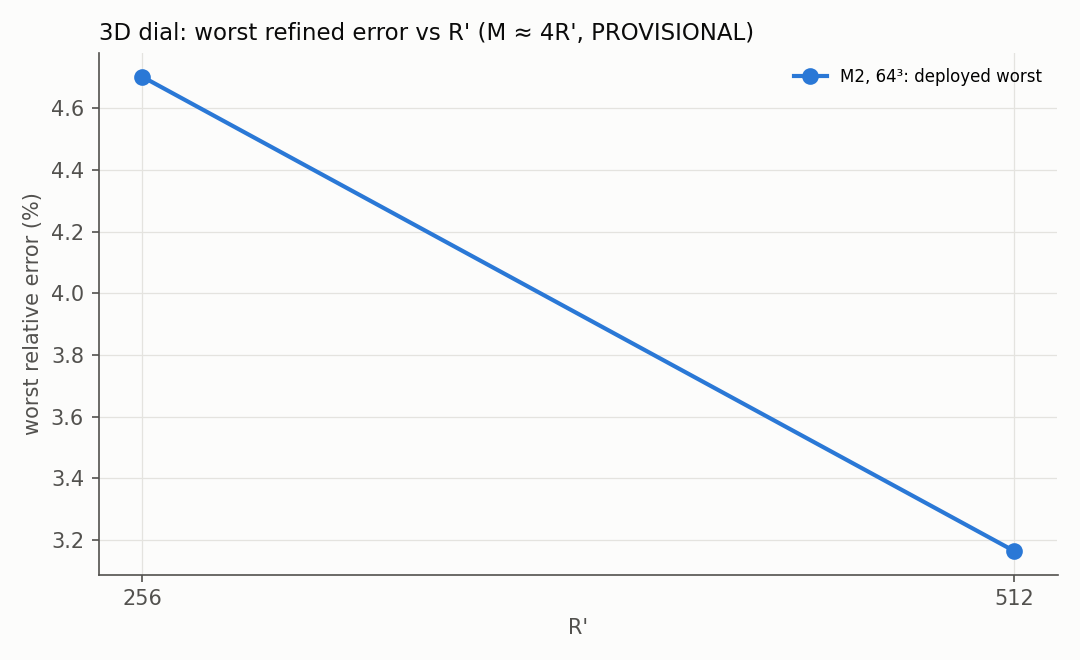
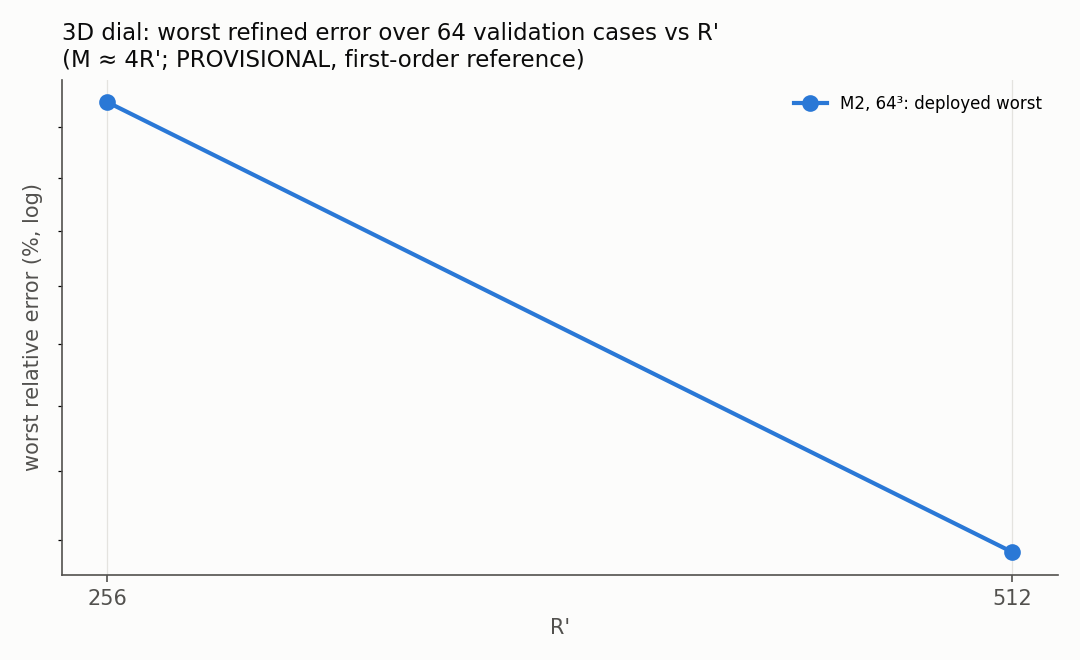
mirror of 6280359de: jcp-wide-bank: report plots (3D floors on dial plot; tensor memory computed to R'=2048)

diff --git a/experiments/jcp-wide-bank/make_report.py b/experiments/jcp-wide-bank/make_report.py
@@ -564,14 +564,22 @@ def plots_3d(recs, tag):
             if rs:
                 ax.plot([r['Rp'] for r in rs], [100 * r['dep_worst'] for r in rs], color=SERIES[i % 4], lw=2,
                         marker=MARKERS[i % 4], ms=7, label=f'{bn}, {n - 1}³: deployed worst')
+                fl = [(r['Rp'], r['floor']) for r in rs if r['floor'] is not None]
+                if fl and bn == 'W1024' and n == max(meshes):
+                    ax.plot([x for x, _ in fl], [100 * y for _, y in fl], color=INK2, lw=1.5, ls='--', marker='x', ms=6,
+                            label=f'{bn}: projection floor vs reference')
                 i += 1
+    ax.set_yscale('log')
+    plain(ax)
     ax.set_xticks(sorted({r['Rp'] for r in recs}))
-    style(ax, f"3D dial: worst refined error vs R' (M ≈ 4R', PROVISIONAL)", "R'", 'worst relative error (%)')
+    style(ax, f"3D dial: worst refined error over 64 validation cases vs R'\n(M ≈ 4R'; PROVISIONAL, first-order reference)", "R'",
+          'worst relative error (%, log)')
     ax.legend(frameon=False, fontsize=8)
     save(f, f'3d_{tag}_error_vs_Rp.png')
     f, ax = fig()
-    xs = np.array([256, 384, 512, 640, 768, 896, 1024])
-    ax.plot(xs, 8 * 4 * xs ** 3 / 1e9, color=SERIES[1], lw=2, marker=MARKERS[1], ms=7, label='tensor, $8\\cdot4R\'\\cdot R\'^2$')
+    xs = np.array([256, 384, 512, 768, 1024, 1536, 2048])
+    ax.plot(xs, 8 * 4 * xs ** 3 / 1e9, color=SERIES[1], lw=2, marker=MARKERS[1], ms=7,
+            label='tensor, $8\\cdot4R\'\\cdot R\'^2$ (computed; built only for R\' ≤ 512)')
     rs = sorted([r for r in recs if r['kappa'] == 4 and r['bytes']], key=lambda r: r['Rp'])
     if rs:
         ax.plot([r['Rp'] for r in rs], [r['bytes'] / 1e9 for r in rs], color=SERIES[0], lw=0, marker=MARKERS[0], ms=8,
